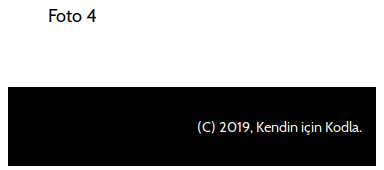
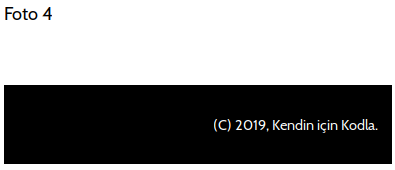
İç boşluk ayarlarını düzenle

Changed region(s): [[0.0, 0.5, 1.0, 1.0], [0.0, 0.0294, 0.25, 0.1471]]

diff --git a/source/css.rst b/source/css.rst
@@ -505,21 +505,12 @@
 
       ::
 
-        margin: UZAKLIK;
+        margin-YÖN: UZAKLIK;
 
-   - soldan: ``margin-left``
-   - sağdan: ``margin-right``
-   - üstten: ``margin-top``
-   - alttan: ``margin-bottom``
-
-   ..
-
-   - yön belirtilmezse: bütün yönlerden aynı uzaklık
-   - veya: ``üst sağ alt sol``
-
-   .. speaker-notes::
-
-      - Yönlerin verilişi saat yönünde.
+   - sol: ``margin-left``
+   - sağ: ``margin-right``
+   - üst: ``margin-top``
+   - alt: ``margin-bottom``
 
 
 .. slide:: Dış boşluklar
@@ -542,6 +533,29 @@
 
          .. image:: images/stil-bosluk-ust-sonra.*
             :alt: Kuraldan sonra altlığın ana gövdeye uzaklığı artıyor.
+
+
+.. slide:: Dış boşluklar
+
+   - yön belirtilmezse: bütün yönlerden aynı uzaklık
+
+   .. code-block:: css
+
+      figure {
+        margin: 0;
+      }
+
+   .. container:: substep mt-4
+
+      - 4 yön birden: ``üst sağ alt sol`` sırasıyla
+
+      ..
+
+      - ``auto`` niteliği kullanılırsa iki yandan aynı boşluk
+
+   .. speaker-notes::
+
+      - Yönlerin verilişi saat yönünde.
 
 
 .. slide:: İç boşluklar
@@ -569,7 +583,7 @@
 
       .. container:: column
 
-         .. image:: images/stil-bosluk-ust-sonra.*
+         .. image:: images/stil-bosluk-ic-once.*
             :alt: Normalde altlıktaki metnin etrafında boşluk yok.
 
       .. container:: column
@@ -604,7 +618,7 @@
 
 
 .. slide:: İçiçe eleman seçimi
-   :data-views: (100, -100, 0, 0.5) (0, 300, 0, 0.5)
+   :data-views: (150, -100, 0, 0.5) (0, 300, 0, 0.5)
 
    .. container:: columns
 
@@ -614,7 +628,7 @@
 
             header a {
               text-decoration: none;
-              margin-right: 1em;
+              margin-left: 1em;
             }
 
       .. container:: column w-1/3
@@ -750,8 +764,6 @@
       ::
 
         max-width: BOYUT;
-
-   - ``margin: auto`` ile birlikte kullanılarak ortaya hizalanabilir
 
    .. container:: task mt-8
 
